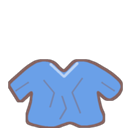
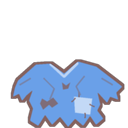
feat(art): the T-shirt is tattered, with a torn hem, holes and a patch
Claude-Session: https://claude.ai/code/session_01QTKFeeLBUNBZhj6R6jJCZF

diff --git a/tools/draw_objects.py b/tools/draw_objects.py
@@ -172,21 +172,33 @@ def draw_milk(img):
 
 
 def draw_shirt(img):
-    """꾸겨진 티셔츠: 벗어 던져 납작하게 놓였다. 양쪽 소매, 목둘레, 구겨진 주름, 비뚤어진 밑단."""
+    """누더기 티셔츠: 납작하게 구겨졌고, 밑단과 소매가 들쭉날쭉 뜯겼고, 구멍이 나고 덧댄 천이 붙었다."""
     y = BOTTOM
-    body = smooth([(10, y - 42), (34, y - 62), (50, y - 64), (64, y - 54), (78, y - 65), (97, y - 60), (120, y - 42), (110, y - 28),
-                   (97, y - 36), (99, y - 20), (102, y - 6), (84, y - 1), (70, y - 5), (52, y), (34, y - 3), (28, y - 8), (32, y - 24), (32, y - 36), (20, y - 26)])
+    rags = [(18, y - 46), (36, y - 62), (50, y - 63), (64, y - 53), (78, y - 65), (96, y - 60), (122, y - 40),
+            (116, y - 34), (118, y - 27), (110, y - 30), (107, y - 24), (97, y - 35),
+            (100, y - 22), (97, y - 16), (103, y - 8),
+            (96, y - 2), (90, y - 11), (83, y - 1), (75, y - 8), (68, y), (60, y - 10), (52, y - 2), (45, y - 12), (38, y - 1), (30, y - 6),
+            (33, y - 18), (29, y - 26), (33, y - 37),
+            (26, y - 31), (22, y - 26), (19, y - 33), (13, y - 30), (15, y - 39)]
     fold = mix(SHIRT, LINE, 0.45)
     wrinkles = [L(pts, 1.5) for pts in (
-        [(44, y - 46), (54, y - 34), (50, y - 20)],
-        [(82, y - 48), (72, y - 34), (80, y - 14)],
-        [(62, y - 30), (66, y - 18), (60, y - 8)],
-        [(16, y - 36), (28, y - 44)],
-        [(114, y - 36), (102, y - 44)],
+        [(44, y - 48), (54, y - 38), (50, y - 28)],
+        [(84, y - 50), (76, y - 40), (80, y - 32)],
+        [(20, y - 42), (30, y - 48)],
+        [(112, y - 42), (102, y - 48)],
     )]
-    blob(img, [T(*body)], SHIRT, r=0.8,
+    hole = mix(SHIRT, LINE, 0.8)
+    stitches = [L(pts, 1.1) for pts in (
+        [(75, y - 28), (72, y - 25)], [(79, y - 30), (79, y - 34)], [(90, y - 22), (94, y - 20)], [(85, y - 13), (85, y - 9)],
+    )]
+    blob(img, [T(*rags)], SHIRT, r=0.4,
          marks=[([L([(51, y - 62), (64, y - 50), (77, y - 63)], 2.6)], mix(SHIRT, WHITE, 0.55)),
-                (wrinkles, fold)])
+                ([T((74, y - 30), (92, y - 28), (90, y - 12), (75, y - 14))], mix(SHIRT, WHITE, 0.6)),
+                (stitches, LINE),
+                (wrinkles, fold),
+                # 구멍 (둥글면 입처럼 보인다)
+                ([T((42, y - 28), (47, y - 25), (53, y - 29), (58, y - 23), (52, y - 19), (49, y - 22), (43, y - 17), (40, y - 23))], hole),
+                ([T((62, y - 44), (66, y - 41), (70, y - 44), (68, y - 38), (63, y - 37))], hole)])
 
 
 def draw_umbrella(img):

diff --git a/crates/screenpet-core/src/tumble.rs b/crates/screenpet-core/src/tumble.rs
@@ -112,7 +112,7 @@ pub fn shape_of(kind: ObjectKind) -> Shape {
         ObjectKind::Glasses => Shape { pivot: (64.0, 105.0), reach: 68.0, hull: &[(5.0, 74.0), (10.0, 73.0), (92.0, 85.0), (111.0, 89.0), (122.0, 97.0), (125.0, 106.0), (124.0, 114.0), (97.0, 127.0), (93.0, 128.0), (35.0, 128.0), (22.0, 120.0), (7.0, 87.0)] },
         ObjectKind::Computer => Shape { pivot: (65.0, 80.0), reach: 70.0, hull: &[(15.0, 48.0), (22.0, 41.0), (105.0, 26.0), (116.0, 36.0), (118.0, 51.0), (113.0, 108.0), (92.0, 126.0), (84.0, 128.0), (44.0, 128.0), (36.0, 126.0), (18.0, 112.0), (15.0, 107.0)] },
         ObjectKind::Milk => Shape { pivot: (64.0, 92.0), reach: 46.0, hull: &[(38.0, 92.0), (39.0, 80.0), (46.0, 52.0), (82.0, 52.0), (88.0, 76.0), (91.0, 111.0), (91.0, 115.0), (89.0, 127.0), (88.0, 128.0), (41.0, 128.0), (39.0, 126.0), (38.0, 115.0)] },
-        ObjectKind::Shirt => Shape { pivot: (65.0, 93.0), reach: 60.0, hull: &[(8.0, 82.0), (31.0, 62.0), (39.0, 59.0), (87.0, 59.0), (113.0, 72.0), (123.0, 83.0), (122.0, 93.0), (104.0, 124.0), (91.0, 128.0), (38.0, 128.0), (26.0, 123.0), (8.0, 88.0)] },
+        ObjectKind::Shirt => Shape { pivot: (67.0, 93.0), reach: 60.0, hull: &[(15.0, 79.0), (34.0, 62.0), (81.0, 59.0), (99.0, 64.0), (124.0, 84.0), (120.0, 102.0), (105.0, 122.0), (99.0, 127.0), (86.0, 128.0), (35.0, 128.0), (28.0, 123.0), (11.0, 99.0)] },
         ObjectKind::Umbrella => Shape { pivot: (66.0, 91.0), reach: 60.0, hull: &[(23.0, 86.0), (43.0, 43.0), (49.0, 35.0), (56.0, 35.0), (59.0, 37.0), (112.0, 85.0), (115.0, 115.0), (110.0, 117.0), (67.0, 127.0), (61.0, 127.0), (38.0, 111.0), (23.0, 93.0)] },
         ObjectKind::Poop => Shape { pivot: (64.0, 98.0), reach: 46.0, hull: &[(24.0, 103.0), (36.0, 79.0), (70.0, 55.0), (78.0, 57.0), (92.0, 79.0), (104.0, 103.0), (105.0, 111.0), (98.0, 121.0), (81.0, 126.0), (47.0, 126.0), (30.0, 121.0), (24.0, 114.0)] },
         ObjectKind::Dropping => Shape { pivot: (64.0, 106.0), reach: 34.0, hull: &[(35.0, 109.0), (44.0, 91.0), (67.0, 75.0), (74.0, 75.0), (84.0, 91.0), (93.0, 109.0), (93.0, 119.0), (85.0, 125.0), (76.0, 127.0), (52.0, 127.0), (43.0, 125.0), (35.0, 119.0)] },

diff --git a/tools/test_draw_objects.py b/tools/test_draw_objects.py
@@ -272,3 +272,19 @@ def test_umbrella_lies_flipped_with_the_handle_up(built):
     ys = a.any(axis=1).nonzero()[0]
     widths = a.sum(axis=1)
     assert widths.argmax() > (ys.min() + ys.max()) / 2, widths.tolist()
+
+
+def test_shirt_is_tattered_not_a_neat_tee(built):
+    """누더기: 밑단이 들쭉날쭉하고, 양쪽 소매가 다르게 뜯겼다."""
+    _, arts = built
+    a = np.asarray(arts["shirt"].getchannel("A")) >= 128
+    xs = a.any(axis=0).nonzero()[0]
+    bottoms = np.array([np.flatnonzero(a[:, x])[-1] for x in xs])
+    hem = bottoms[len(bottoms) // 4: len(bottoms) * 3 // 4]
+    turns = int(((hem[1:-1] > hem[:-2]) & (hem[1:-1] >= hem[2:])).sum())
+    assert turns >= 3 and hem.max() - hem.min() >= 7, hem.tolist()
+    ys = a.any(axis=1).nonzero()[0]
+    mid = (xs.min() + xs.max()) // 2
+    left, right = a[ys.min():, :mid + 1], a[ys.min():, mid + 1:][:, ::-1]
+    n = min(left.shape[1], right.shape[1])
+    assert (left[:, -n:] != right[:, -n:]).sum() > a.sum() * 0.05, "the two sides should tear differently"

diff --git a/tools/pixel_world_icons.py b/tools/pixel_world_icons.py
@@ -1527,14 +1527,14 @@ OBJECTS = {
         ......bbbbbWWbbbbb......
         ....bbbbbbbbbbbbbbbb....
         ..bbbbbbbbbbbbbbbbbbbb..
-        ..BbbbbbbbbbbbbbbbbbbB..
-        ...BB..bbbbbbbbbb..BB...
-        .......bbbbBbbbbbb......
-        .......bbbbbBbbbbb......
-        .......bbBbbbbbbbb......
-        .......bbbbbbbBbbb......
-        .......bbbbbbbbbbB......
-        .......BBBBBBBBBBB......
+        ..BbBbbbbbkkbbbbbbbbbB..
+        ...B.B.bbbbkbbbbbb.bBb..
+        .......bbbbbbbbBbb......
+        .......bbbbbBcccbb......
+        ........bkkbbcccbb......
+        .......bbbkbbcccbb......
+        .......bbbbbbbbbbbb.....
+        .......B.BB..B..BB......
         ........................
         """,
     "umbrella": """

diff --git a/crates/screenpet-core/src/object.rs b/crates/screenpet-core/src/object.rs
@@ -119,7 +119,7 @@ impl ObjectKind {
             ObjectKind::Glasses => "👓 금 간 안경",
             ObjectKind::Computer => "💻 고장난 컴퓨터",
             ObjectKind::Milk => "🥛 빈 우유팩",
-            ObjectKind::Shirt => "👕 꾸겨진 티셔츠",
+            ObjectKind::Shirt => "👕 누더기 티셔츠",
             ObjectKind::Umbrella => "☂ 부러진 우산",
             ObjectKind::Poop | ObjectKind::Dropping | ObjectKind::Pellets => "💩 똥",
         }

diff --git a/docs/releases/v0.5.2.md b/docs/releases/v0.5.2.md
@@ -1,5 +1,5 @@
 ## 📏 크기 조절
 
 - **크기 조절:** `⚙ 설정 ▸ 📏 크기 조절…`에서 펫과 물건 크기를 슬라이더로 50~150%까지 바꿔요. 내 화면에만 적용돼요. `↺`나 `모두 기본값으로`를 누르면 돌아와요.
-- **👕 꾸겨진 티셔츠:** 양말을 빼고 티셔츠를 넣었어요. 옛 버전 친구에게는 양말로 보여요.
+- **👕 누더기 티셔츠:** 양말을 빼고, 구멍 나고 뜯긴 티셔츠를 넣었어요. 옛 버전 친구에게는 양말로 보여요.
 - **☂ 부러진 우산:** 뒤집힌 채로 떨어져요. 천이 바닥에 닿고 꺾인 대가 위로 솟아서 더 고장나 보여요.
